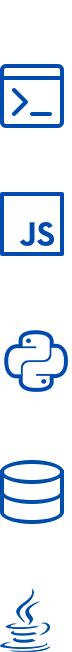
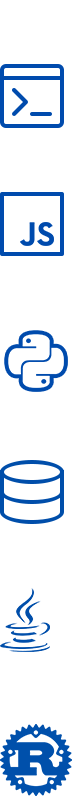
New UI style

Changed region(s): [[0.0, 0.0613, 0.9444, 0.6748], [0.0, 0.8896, 1.0, 1.0], [0.0, 0.7055, 0.8889, 0.8282]]

diff --git a/app/stylesheets/search.css b/app/stylesheets/search.css
@@ -1,1 +1,1 @@
[2 lines of base64/hex data omitted]

diff --git a/app/search/search.html b/app/search/search.html
@@ -1,0 +1,117 @@
+<section class="search-result">
+    <form action="" class="search-form">
+        <div class="container">
+            <div class="search-controls">
+                <input type="text" class="search-input" value="" ng-model="input">
+                <button type="submit" class="search-button" ng-click="search()">Search</button>
+            </div>
+        </div>
+    </form>
+</section>
+
+
+<div class="loader" ng-show="showLoader"></div>
+
+
+<section class="container">
+
+    <div ng-repeat="result in results" class="search-result-i">
+
+        <div class="search-result-i">
+            <p class="search-result-title">
+                {{ result.title }}
+            </p>
+            <p class="search-result-description">
+                <a class="search-result-description" href="https://archive.org/details/{{result.identifier}}">{{ result.identifier }}</a>
+            </p>
+            <p>
+                {{ result.description }}
+            </p>
+            <p class="search-result-description">
+                Public data: {{result.publicdate}}
+            </p>
+
+            <a class="search-result-toggle-files" ng-click="download($event,result.identifier)">Show files</a>
+            <!-- <a href="#" class="search-result-toggle-files">Hide files</a> -->
+            <!-- <a href="#" class="search-result-toggle-files search-result-toggle-files_loader">Show files</a> -->
+
+        </div>
+
+        <div class="search-result-files">
+            <div class="search-result-files-tr" ng-repeat="file in result.files" ng-class="{'search-result-files-tr_noticed': !file.download && file.exist}">
+                <div class="search-result-files-td search-result-files-td_name">
+                    <a download target="_blank" href="{{file.url}}">{{file._name}}</a>
+                </div>
+                <div class="search-result-files-td">
+                    <span>[{{file.humanFileSize}}]</span>
+                </div>
+                <div class="search-result-files-td search-result-files-td_hash">
+                    <span style="font-family: courier; font-size: small;">{{file.sha1}}</span>
+                </div>
+                <div class="search-result-files-td search-result-files-td_download">
+                    <div ng-show="file.download && file.exist" ><div class="search-result-files-download" ng-click="getOts(result.identifier,file.sha1,file._name)">Download OTS</div></div>
+                    <div ng-hide="file.download || !file.exist" ><a class="search-result-files-download" target="_blank" href="https://opentimestamps.org/info.html?ots={{file.ots}}">Info OTS</a></div>
+                </div>
+                <div class="search-result-files-notice" ng-hide="file.download || !file.exist">
+                    {{file.status}}
+                </div>
+            </div>
+        </div>
+    <!--<div class="search-result-files">
+                <div class="search-result-files-tr search-result-files-tr_noticed" ng-repeat="file in result.files">
+                    <div class="search-result-files-td search-result-files-td_name">
+                        <a download target="_blank" href="{{file.url}}">{{file._name}}</a>
+                    </div>
+                    <div class="search-result-files-td" style="text-align: right">
+                        <span>[{{file.humanFileSize}}]</span>
+                    </div>
+                    <div class="search-result-files-td search-result-files-td_hash">
+                        <span style="font-family: courier; font-size: small;">{{file.sha1}}</span>
+                    </div>
+                    <div class="search-result-files-td search-result-files-td_download">
+                        <div ng-show="file.download && file.exist" ><div class="search-result-files-download" ng-click="getOts(result.identifier,file.sha1,file._name)">Download OTS</div></div>
+                        <div ng-hide="file.download || !file.exist" ><a class="search-result-files-download" target="_blank" href="https://opentimestamps.org/info.html?ots={{file.ots}}">Info OTS</a></div>
+                    </div>
+                    <div class="search-result-files-notice" ng-hide="file.download || !file.exist">
+                        <span>{{file.status}}</span>
+
+                    </div>
+                </div>
+        </div>
+        -->
+    </div>
+
+
+        <!--<div class="search-result-title">{{ result.title }}</div>
+        <div>
+            <b><a href="https://archive.org/details/{{result.identifier}}">{{ result.identifier }}</a></b>
+        </div>
+        <div>
+            {{ result.description }}
+        </div>
+        <br>
+        <p>
+            <button class="download" ng-click="download($event,result.identifier)">Show files</button>
+        </p>
+
+        <div style="width: 100%;">
+            <div ng-repeat="file in result.files" class="row">
+                <div class="clearfix"></div>
+                <div class="col-lg-4 col-md-8 col-sm-8"><a download target="_blank" href="{{file.url}}">{{file._name}}</a></div>
+                <div class="col-lg-1 col-md-4 col-sm-4" style="text-align: right"><span>{{file.humanFileSize}}</span></div>
+                <div class="col-lg-4 col-md-8 col-sm-8"><span style="font-family: courier; font-size: small;">{{file.sha1}}</span></div>
+                <div class="col-lg-3 col-md-4 col-sm-4">
+                    <div ng-show="file.download && file.exist" ><button class="smalldownload"ng-click="getOts(result.identifier,file.sha1,file._name)">Download Ots</button></div>
+                    <div ng-hide="file.download || !file.exist" ><a class="smalldownload" target="_blank" href="https://opentimestamps.org/info.html?ots={{file.ots}}">INFO OTS</a></div>
+                    <div ng-hide="file.download || !file.exist" ><span>{{file.status}}</span></div>
+                </div>
+            </div>
+        </div>
+
+        <hr/>-->
+
+
+    <div style="text-align: center;">
+        <b><a ng-click="loadMore()" ng-show="showMore">Load more results...</a></b>
+    </div>
+</section>

diff --git a/app/search/search.js b/app/search/search.js
@@ -1,58 +1,15 @@
 'use strict';
 
 
-angular.module('myApp.home', ['ngRoute'])
+angular.module('myApp.search', ['ngRoute'])
 
 .config(['$routeProvider','$httpProvider', function($routeProvider,$httpProvider) {
-  $routeProvider.when('/home', {
-    templateUrl: 'home/home.html',
-    controller: 'HomeCtrl'
+  $routeProvider.when('/search', {
+    templateUrl: 'search/search.html',
+    controller: 'SearchCtrl'
   });
 }])
-.factory('ArchiveService', function($http,$sce) {
-      return {
-        search: function(string,page) {
-          //https://archive.org/advancedsearch.php?q=opentimestamps&fl%5B%5D=description&fl%5B%5D=identifier&fl%5B%5D=publicdate&fl%5B%5D=title&sort%5B%5D=&sort%5B%5D=&sort%5B%5D=&rows=50&page=1&output=json&callback=callback&save=yes#raw
-          var url = "https://archive.org/advancedsearch.php";
-          var params = "q="+string+"&rows=50&page="+page+"&output=json&callback=JSON_CALLBACK&save=yes#raw";
-          $sce.trustAsResourceUrl(url+"?"+params);
-          return $http.jsonp(url+"?"+params);
-        },
-          download: function(identifier) {
-              //https://archive.org/download/opentimestamps-calendar-backups/opentimestamps-calendar-backups_files.xml
-              // redirect to : 'https://ia801509.us.archive.org/13/items/opentimestamps-calendar-backups/opentimestamps-calendar-backups_files.xml#raw';
-              var url = "https://api.eternitywall.com/archive-proxy/" + identifier;
-              return $http.get(url);
-          }
-      }
-})
-.factory('OpenTimestampsService', function($http) {
-        return {
-            timestamp: function(hash) {
-                //https://alice.btc.calendar.opentimestamps.org/timestamp/e8fb8fa92c9c116f58c0d35d789939be69472529
-                //var url = "http://alice.btc.calendar.opentimestamps.org/timestamp/57cfa5c46716df9bd9e83595bce439c58108d8fcc1678f30d4c6731c3f1fa6c79ed712c66fb1ac8d4e4eb0e7";
-                var url = "https://internetarchive.calendar.opentimestamps.org/timestamp/";
-                url += hash;
-                return $http.get(url,{responseType: "arraybuffer"});
-            }
-
-        }
-})
-    .config(function($sceDelegateProvider) {
-        $sceDelegateProvider.resourceUrlWhitelist(['**']);
-    })
-
-
-
-    .controller('HomeCtrl', function($scope, $location) {
-        $scope.input = '';
-
-        $scope.search = function () {
-            $location.path( 'search/' + $scope.input);
-        };
-    });
-/*
-.controller('HomeCtrl', function($scope,ArchiveService,OpenTimestampsService,toastr) {
+.controller('SearchCtrl', function($scope,ArchiveService,OpenTimestampsService,toastr) {
         $scope.results = [];
         $scope.input='';
         $scope.showLoader=false;
@@ -296,4 +253,3 @@ angular.module('myApp.home', ['ngRoute'])
         }
 
     });
-*/

diff --git a/app/home/home.html b/app/home/home.html
@@ -1,54 +1,10 @@
-<section class="intro">
-    <p class="timestamp-of">
-        Timestamping the Internet
-    </p>
-
-    <form>
-    <div class="form-group inputbar">
-        <input type="text" name="input" ng-model="input" placeholder="Search on Archive.org" class="form-control"/>
-    </div>
-    </br>
-    <button type="submit" class="download" id="download" ng-click="search()">SEARCH ON ARCHIVE.ORG</button>
-    <br>
+<section class="content search">
+    <h1>Timestamping the Internet</h1>
+    <form action="" class="search-form">
+        <div class="search-controls">
+            <input type="text" class="search-input" placeholder="Search on Archive.org" ng-model="input" >
+            <button type="submit" class="search-button" ng-click="search()">Search</button>
+        </div>
+        <div class="search-example">Example: Google.com</div>
     </form>
-</section>
-
-<div class="loader" ng-show="showLoader"></div>
-
-<section class="container">
-
-<div ng-repeat="result in results" class="search-result-i">
-    <div class="search-result-title">{{ result.title }}</div>
-    <div>
-      <b><a href="https://archive.org/details/{{result.identifier}}">{{ result.identifier }}</a></b>
-    </div>
-    <div>
-      {{ result.description }}
-    </div>
-    <br>
-    <p>
-        <button class="download" ng-click="download($event,result.identifier)">Show files</button>
-    </p>
-
-    <div style="width: 100%;">
-        <div ng-repeat="file in result.files" class="row">
-            <div class="clearfix"></div>
-            <div class="col-lg-4 col-md-8 col-sm-8"><a download target="_blank" href="{{file.url}}">{{file._name}}</a></div>
-            <div class="col-lg-1 col-md-4 col-sm-4" style="text-align: right"><span>{{file.humanFileSize}}</span></div>
-            <div class="col-lg-4 col-md-8 col-sm-8"><span style="font-family: courier; font-size: small;">{{file.sha1}}</span></div>
-            <div class="col-lg-3 col-md-4 col-sm-4">
-                <div ng-show="file.download && file.exist" ><button class="smalldownload"ng-click="getOts(result.identifier,file.sha1,file._name)">Download Ots</button></div>
-                <div ng-hide="file.download || !file.exist" ><a class="smalldownload" target="_blank" href="https://opentimestamps.org/info.html?ots={{file.ots}}">INFO OTS</a></div>
-                <div ng-hide="file.download || !file.exist" ><span>{{file.status}}</span></div>
-            </div>
-         </div>
-    </div>
-
-    <hr/>
-</div>
-
-
-    <div style="text-align: center;">
-        <b><a ng-click="loadMore()" ng-show="showMore">Load more results...</a></b>
-    </div>
 </section>

diff --git a/app/index.html b/app/index.html
@@ -20,12 +20,9 @@
   <link rel="stylesheet" href="stylesheets/application.css" media="screen" title="no title">
   <link rel="stylesheet" href="bower_components/html5-boilerplate/dist/css/normalize.css">
   <link rel="stylesheet" href="bower_components/html5-boilerplate/dist/css/main.css">
-  <link rel="stylesheet" href="app.css">
-  <link rel="stylesheet" href="stylesheets/timestamp-of.css" media="screen" title="no title">
-  <script src="bower_components/html5-boilerplate/dist/js/vendor/modernizr-2.8.3.min.js"></script>
-  <link rel="stylesheet" href="https://maxcdn.bootstrapcdn.com/bootstrap/3.3.7/css/bootstrap.min.css" integrity="sha384-BVYiiSIFeK1dGmJRAkycuHAHRg32OmUcww7on3RYdg4Va+PmSTsz/K68vbdEjh4u" crossorigin="anonymous">
   <link rel="stylesheet" type="text/css" href="bower_components/angular-toastr/dist/angular-toastr.min.css" />
   <link rel="stylesheet" type="text/css" href="stylesheets/search.css" />
+  <link rel="stylesheet" href="app.css">
 </head>
 <body>
 
@@ -40,7 +37,7 @@
       <p class="browsehappy">You are using an <strong>outdated</strong> browser. Please <a href="http://browsehappy.com/">upgrade your browser</a> to improve your experience.</p>
   <![endif]-->
 
-  <div ng-view></div>
+<div ng-view></div>
 
 
 <footer class="footer">
@@ -60,9 +57,11 @@
   <script src="bower_components/abdmob/x2js/xml2json.min.js"></script>
   <script src="bower_components/angular-toastr/dist/angular-toastr.tpls.js"></script>
   <script src="bower_components/angular-animate/angular-animate.min.js"></script>
+  <script src="bower_components/html5-boilerplate/dist/js/vendor/modernizr-2.8.3.min.js"></script>
   <script src="bundle.js"></script>
   <script src="app.js"></script>
   <script src="home/home.js"></script>
+  <script src="search/search.js"></script>
   <script src="components/version/version.js"></script>
   <script src="components/version/version-directive.js"></script>
   <script src="components/version/interpolate-filter.js"></script>

diff --git a/app/app.js b/app/app.js
@@ -6,6 +6,7 @@ angular.module('myApp', [
   'ngAnimate',
   'toastr',
   'myApp.home',
+  'myApp.search',
   'myApp.version'
 ]).
 config(['$locationProvider', '$routeProvider', function($locationProvider, $routeProvider) {

diff --git a/app/app.css b/app/app.css
@@ -94,3 +94,10 @@
   margin: 5px 5px 5px 0px;
   margin-right: 15px;
 }
+
+.search {
+  position: fixed;
+  width: 100%;
+  height: 100%;
+  padding-top: 20%;
+}
